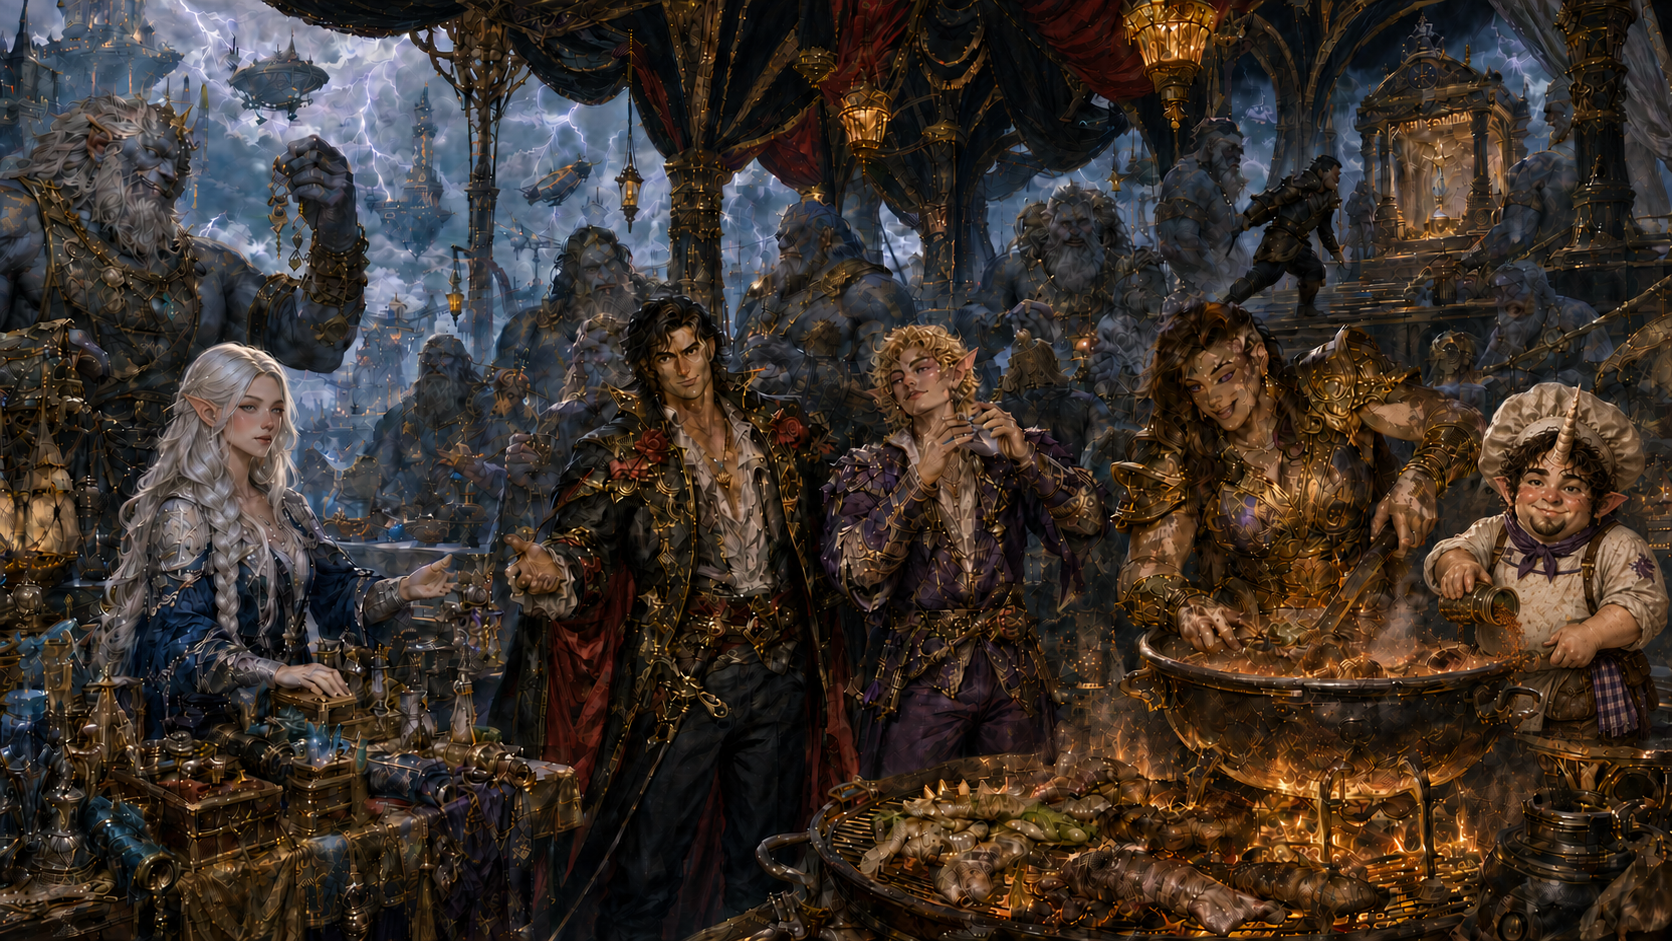
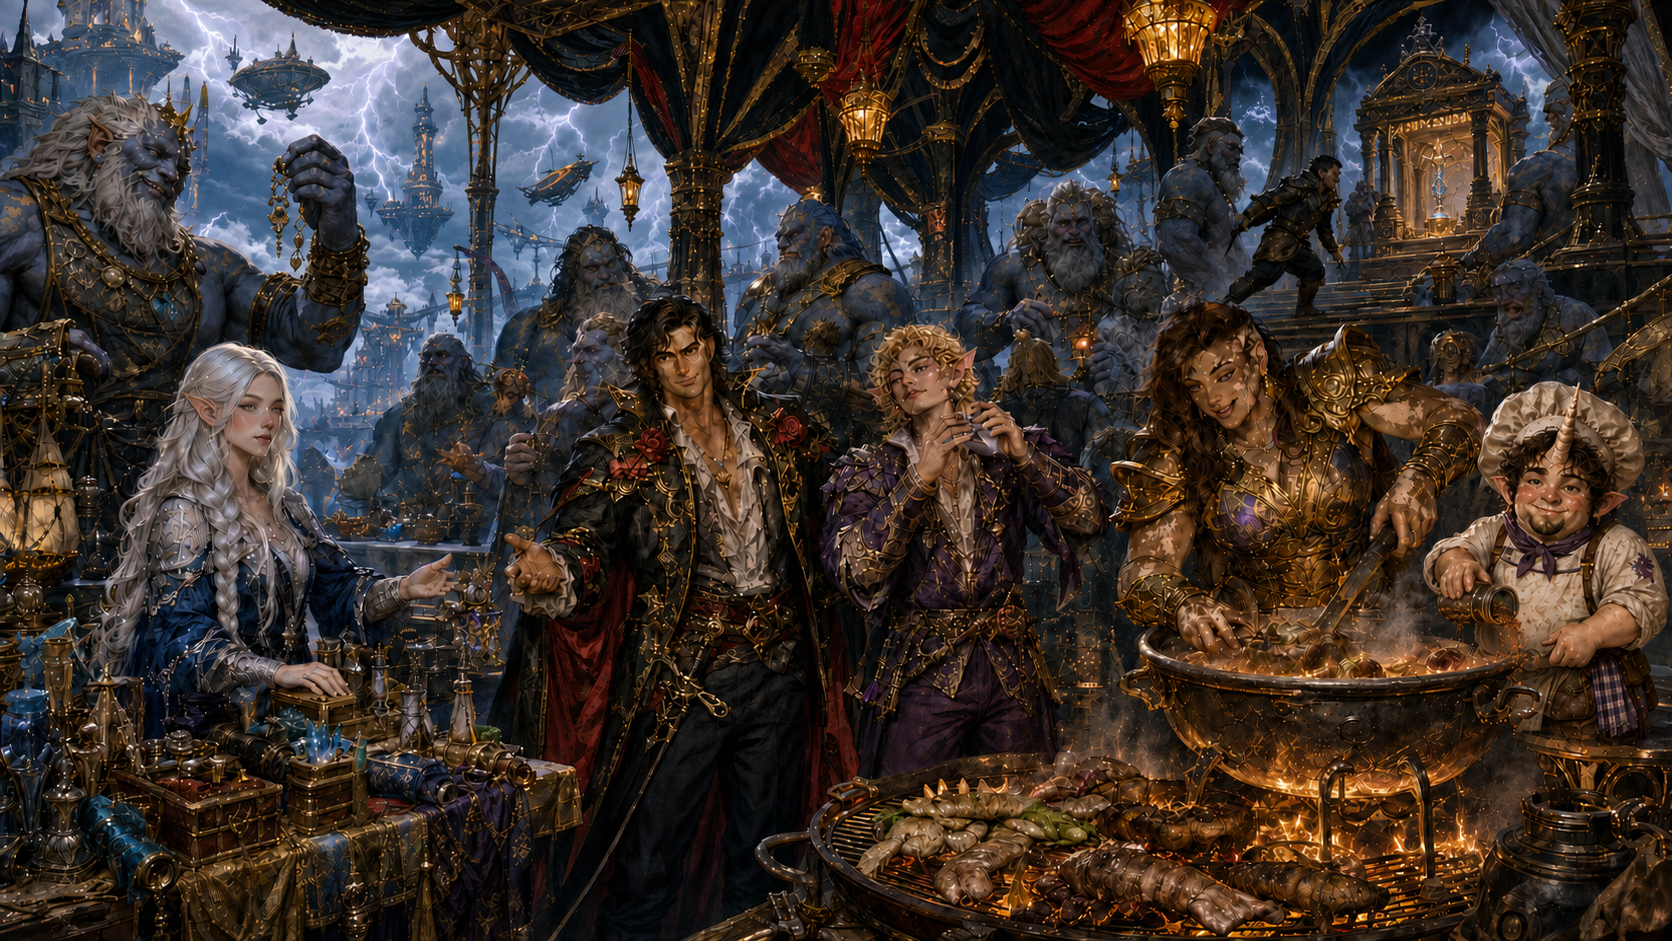
Clean Stormspire art and promote campaign timeline

diff --git a/docs/index.md b/docs/index.md
@@ -22,6 +22,7 @@ This wiki is the readable front door to the repository. It summarizes establishe
 | Aristea's pilgrimages, divine mantle, and earlier life | [Aristea's Backstory](../campaign/aristea_backstory.md) |
 | Aristea's current reincarnated kobold incarnation | [Aristea Enontië](../campaign/aristea_enontie.md) |
 | The campaign as it currently stands | [Campaign Guide](campaign-guide.md) |
+| Events and the story in chronological order | [Campaign Timeline](../campaign/timeline.md) |
 | Zatera, Berres, Sounon, the Sunlit Chain, and Nysia | [Campaign Setting](campaign-setting.md) |
 | The Dawnrunner, its officers, and named crew | [Dawnrunner](dawnrunner.md) |
 | Tulip's illustrated galley favorites | [Tulip's Top 10 Recipes](tulips-top-10-recipes.md) |

diff --git a/CHANGELOG.md b/CHANGELOG.md
@@ -1,5 +1,11 @@
 # Change Log
 
+## Main-page events navigation - 2026-07-25
+
+- Added a prominent **Events and the story in chronological order** link to
+  the wiki home page's Start Here table.
+- Mirrored the navigation entry in the repository's reader-facing index.
+
 ## Tulip cookbook, wedding, and cookoff cleanup - 2026-07-25
 
 - Added an illustrated collection of Tulip's ten signature recipes, with
